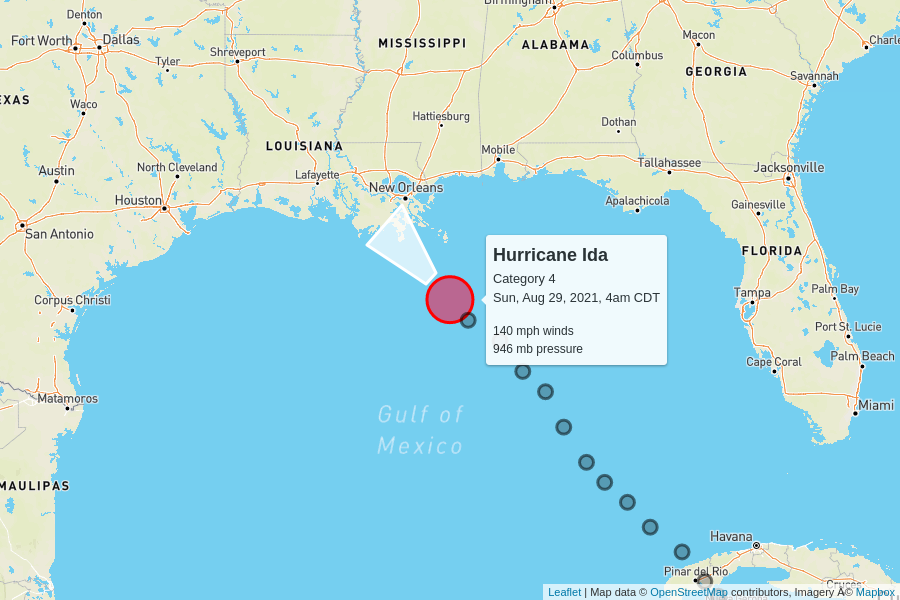
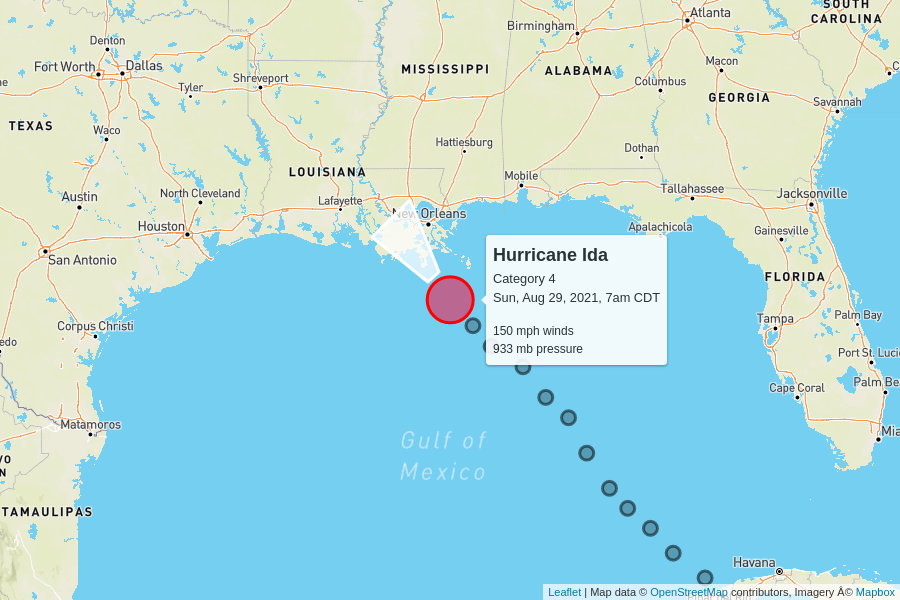
automatic update

diff --git a/docs/index.html b/docs/index.html
@@ -95,7 +95,7 @@
         <td colspan="6" class="storm category-4">
           <h2>
             Hurricane Ida - Category 4
-            <p class="updated">last updated <span data-time>2021-08-29T09:00:00.000Z</span></p>
+            <p class="updated">last updated <span data-time>2021-08-29T12:00:00.000Z</span></p>
           </h2>
         </td>
       </tr>
@@ -110,12 +110,12 @@
       </tr>
       <tr>
         <td class="spacer"></td>
-        <td>140 mph</td>
-        <td>946 mb</td>
+        <td>150 mph</td>
+        <td>933 mb</td>
         <td>
           15 mph to the northwest
           <br/>
-          <span style="display: inline-block; font-size: 1.5em; rotate: 315deg;">↑</span>
+          <span style="display: inline-block; font-size: 1.5em; rotate: 320deg;">↑</span>
         </td>
         <td><a href="https://raw.githubusercontent.com/mgwalker/atlantic-hurricanes/main/data/csv/AL092021.csv">AL092021.csv</a></td>
         <td><a href="https://www.nhc.noaa.gov/archive/2021/IDA.shtml?">NHC advisories</a></td>
@@ -124,43 +124,6 @@
         <td class="spacer">
         <td colspan="5">
           <img src="AL092021.png">
-        </td>
-      </tr>
-      
-
-      <tr>
-        <td colspan="6" class="storm category-0">
-          <h2>
-            Tropical Depression Ten
-            <p class="updated">last updated <span data-time>2021-08-29T09:00:00.000Z</span></p>
-          </h2>
-        </td>
-      </tr>
-      
-      <tr>
-        <th class="spacer"></th>
-        <th>wind speed</th>
-        <th>central pressure</th>
-        <th>movement</th>
-        <th>data (CSV)</th>
-        <th>National Hurricane Center</th>
-      </tr>
-      <tr>
-        <td class="spacer"></td>
-        <td>35 mph</td>
-        <td>1007 mb</td>
-        <td>
-          10 mph to the undefined
-          <br/>
-          <span style="display: inline-block; font-size: 1.5em; rotate: 360deg;">↑</span>
-        </td>
-        <td><a href="https://raw.githubusercontent.com/mgwalker/atlantic-hurricanes/main/data/csv/AL102021.csv">AL102021.csv</a></td>
-        <td><a href="https://www.nhc.noaa.gov/archive/2021/TEN.shtml?">NHC advisories</a></td>
-      </tr>
-      <tr>
-        <td class="spacer">
-        <td colspan="5">
-          <img src="AL102021.png">
         </td>
       </tr>
       
@@ -198,6 +161,43 @@
         <td class="spacer">
         <td colspan="5">
           <img src="AL112021.png">
+        </td>
+      </tr>
+      
+
+      <tr>
+        <td colspan="6" class="storm category-0">
+          <h2>
+            Tropical Depression Ten
+            <p class="updated">last updated <span data-time>2021-08-29T09:00:00.000Z</span></p>
+          </h2>
+        </td>
+      </tr>
+      
+      <tr>
+        <th class="spacer"></th>
+        <th>wind speed</th>
+        <th>central pressure</th>
+        <th>movement</th>
+        <th>data (CSV)</th>
+        <th>National Hurricane Center</th>
+      </tr>
+      <tr>
+        <td class="spacer"></td>
+        <td>35 mph</td>
+        <td>1007 mb</td>
+        <td>
+          10 mph to the undefined
+          <br/>
+          <span style="display: inline-block; font-size: 1.5em; rotate: 360deg;">↑</span>
+        </td>
+        <td><a href="https://raw.githubusercontent.com/mgwalker/atlantic-hurricanes/main/data/csv/AL102021.csv">AL102021.csv</a></td>
+        <td><a href="https://www.nhc.noaa.gov/archive/2021/TEN.shtml?">NHC advisories</a></td>
+      </tr>
+      <tr>
+        <td class="spacer">
+        <td colspan="5">
+          <img src="AL102021.png">
         </td>
       </tr>
       
